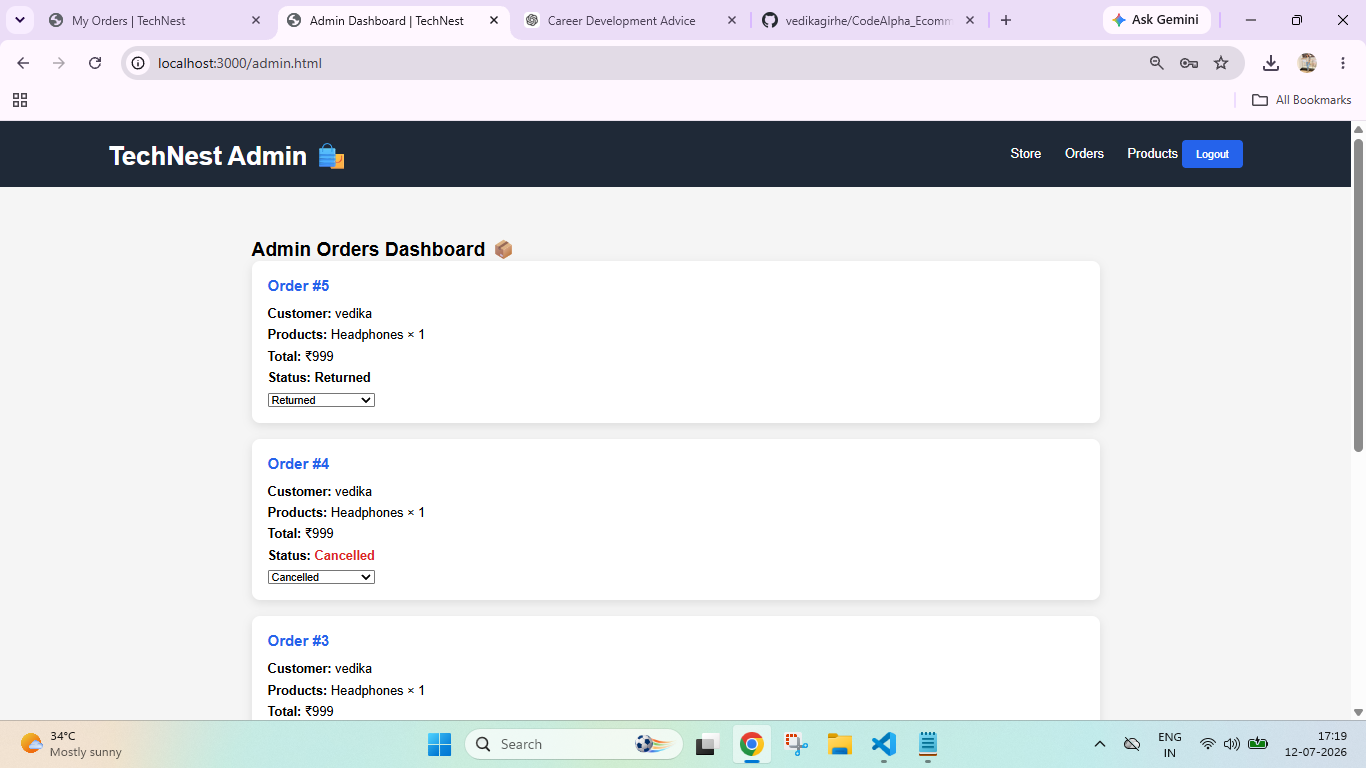
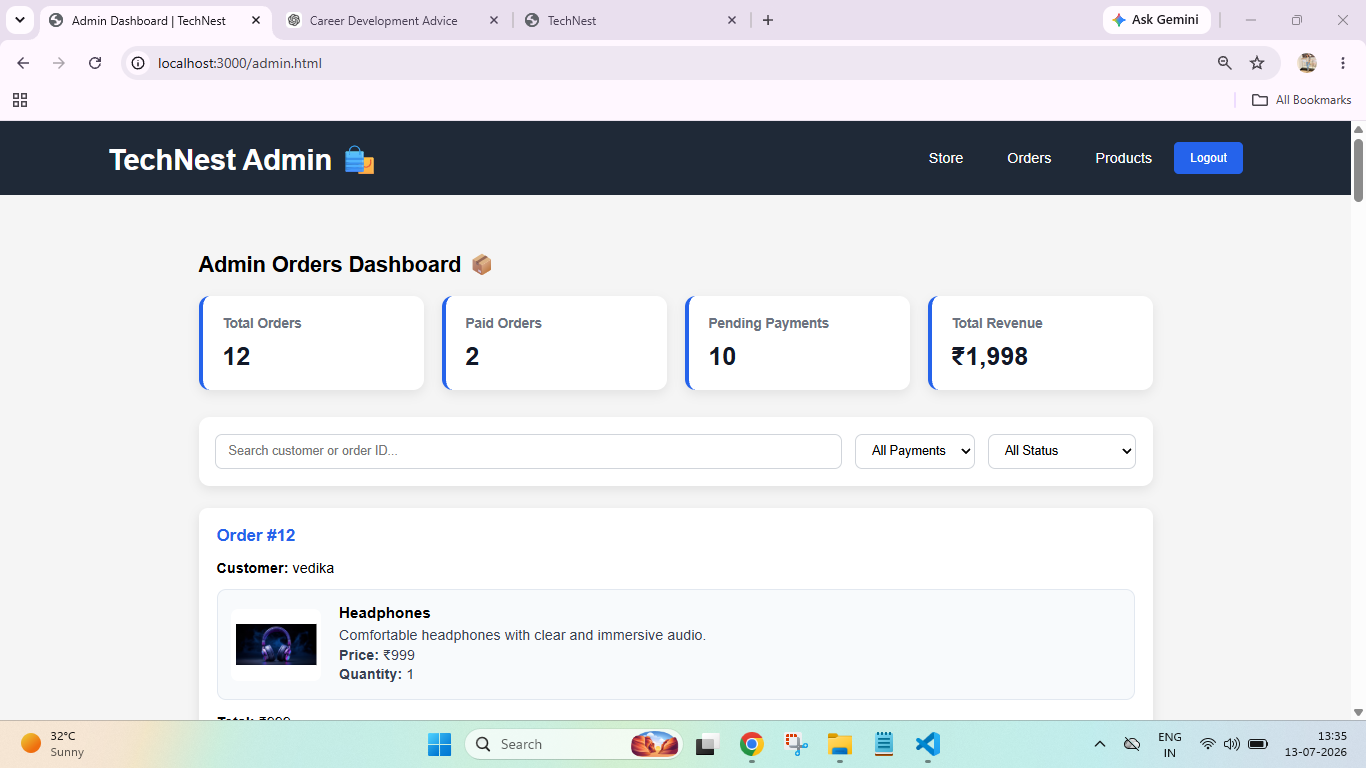
Update README and project screenshots

diff --git a/README.md b/README.md
@@ -20,6 +20,12 @@ The application allows users to browse technology products, create an account, l
 - Track Order Status
 - Cancel Orders
 - 7-Day Return Policy
+- Razorpay Payment Integration
+- Secure Payment Verification
+- Payment Status Tracking
+- Payment ID Storage
+- Responsive Shopping Cart
+- Order Summary
 
 ### Admin Features
 - Secure Admin Login
@@ -30,9 +36,18 @@ The application allows users to browse technology products, create an account, l
 - Add Products
 - Edit Products
 - Delete Products
+- Admin Dashboard Statistics
+- Total Orders Overview
+- Paid Orders Tracking
+- Pending Payment Tracking
+- Total Revenue Overview
+- Search Orders by Customer
+- Filter Orders by Payment Status
+- Filter Orders by Order Status
+- View Product Images and Details
+
 
 ## Technologies Used
-
 - HTML5
 - CSS3
 - JavaScript
@@ -42,6 +57,10 @@ The application allows users to browse technology products, create an account, l
 - Better SQLite3
 - bcrypt.js
 - Express Session
+- Razorpay Payment Gateway
+- dotenv
+- Node.js Crypto Module
+
 
 ## Project Structure
 
@@ -96,6 +115,18 @@ The administrator can review the return request and update the order status to R
 - Admin routes are protected using server-side sessions.
 - Admin authentication is required for product and order management.
 
+## Payment Integration
+
+TechNest integrates Razorpay for secure online payments.
+
+- Razorpay Checkout integration
+- Server-side payment signature verification
+- Payment status tracking
+- Razorpay Payment ID storage
+- Orders are created after successful payment verification
+- Secure payment processing using environment variables
+
+
 ## Internship
 
 This project was developed as part of the CodeAlpha Web Development Internship.
@@ -119,6 +150,9 @@ This project was developed as part of the CodeAlpha Web Development Internship.
 
 ### Admin Product Management
 ![Admin Product Management](screenshots/admin-products.png)
+
+### Razorpay Payment
+![Razorpay Payment](screenshots/payment-success.png)
 
 ## Author
 